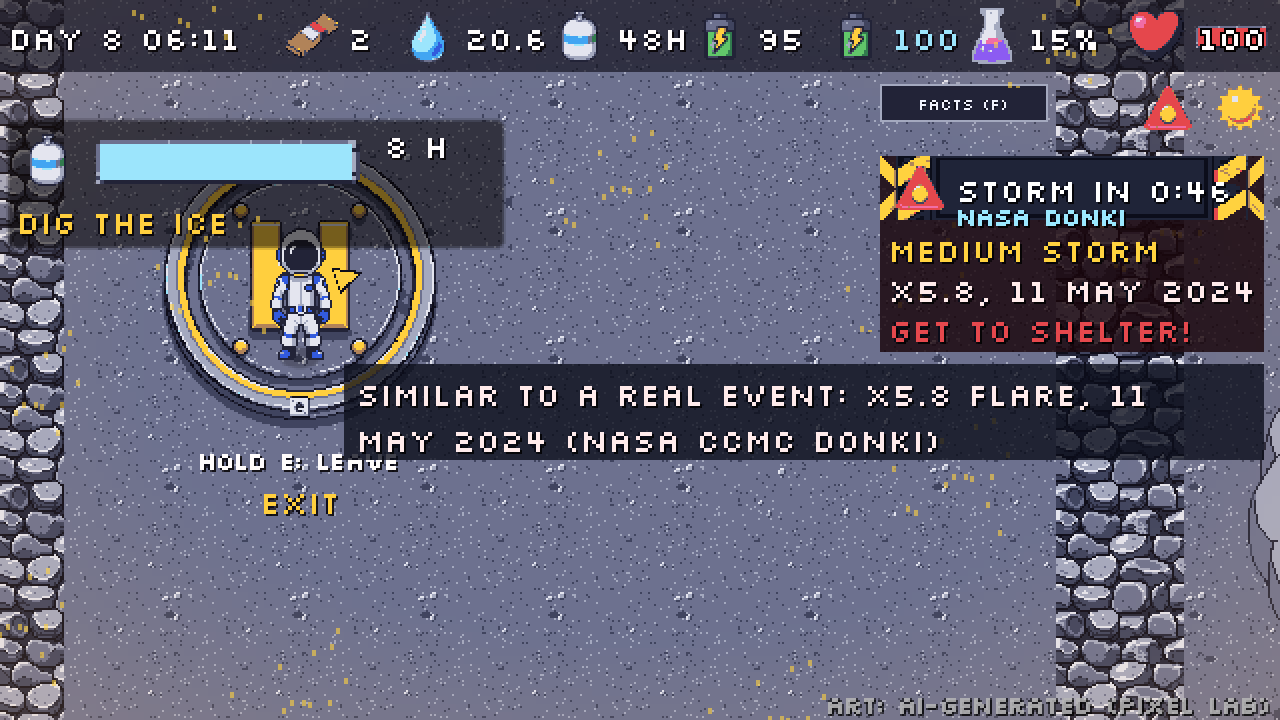
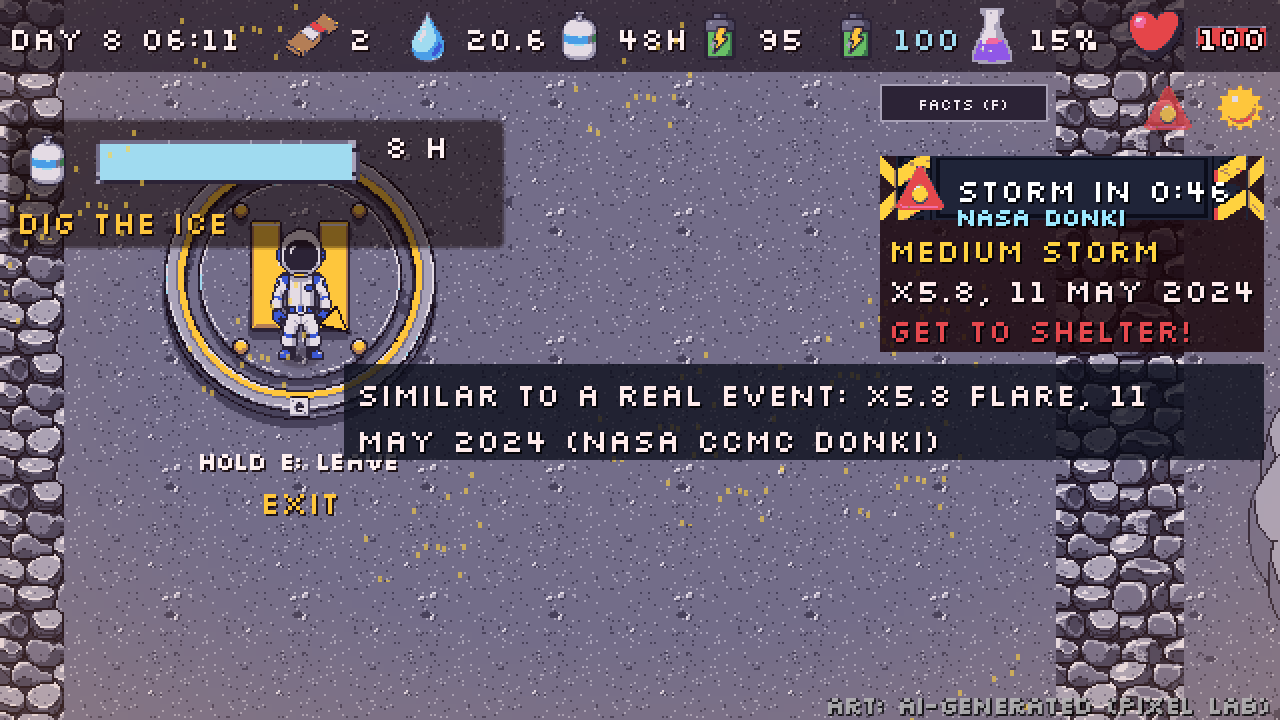
Review 2 fixes: arrow through wall gaps, shorter finale, menu rows, focus, pad prompt, failed heading; new captures and itch cover

diff --git a/docs/DECISIONS_LOG.md b/docs/DECISIONS_LOG.md
@@ -45,3 +45,4 @@
 - FINAL 5 (reviewer fixes): menus keep the keyboard (focus released, Enter and mouse clicks work, nothing behind can be clicked, 0.3 s input delay against double taps); title shows the game name and ignores keys while a dialog is open; cargo lander sits on the right half of the pad (path stays free), pad radius 90; day 32 notice points to the landing pad; Health number readable; Judge day label not clipped; '+10 health'; failed ending explains a health death; mission EXIT label moved under the pad; building footprints reach down to the node origin so the player is never drawn behind a building while standing in front of it. Retry-day values were correct (the preset's state is after the 07:00 cargo, Retry goes back to 06:00). Not fixed: audio 'DataCloneError out of memory' seen in the reviewer's console after many reloads in one tab (could not reproduce).
 - CLEANUP S (sound): make_sfx.py normalises by group (peak limit and RMS target: alarm -1/-6, events -4/-12, pickups -7/-15, UI -12/-20, steps -18/-30 dBFS), trims leading silence, 5 ms fades on every effect, squares and saws low-passed at 4 kHz, UI/pickup tones use a square+triangle mix. Audio.gd: +-5% pitch on step, pickup, click; same sound at most every 60 ms and 2 copies at once; ambience ducks about 6 dB for 0.4 s under important effects and fades in/out over 0.5 s (storms still mean full silence). audio_check prints a peak/RMS table; nothing above -1 dBFS. Not verified by ear in the Web build.
 - CLEANUP V (visuals): UIStyle token script (palette colours, 3 text sizes 12/16/24, 8 px padding, 4 px gap, 2 px corners, 0.12 s panel fade + 2 px slide, 0.2 s scene fade); every hard-coded UI colour replaced by tokens; no text below 12 px; pixel art only at 1:1 or 2:1 (slider track 0.5 in the 2x layer, 16-unit icons in menus); lock labels only within 120 px of the player; paths now reach the forecast board and the shelter; every panel opens/closes with the same animation; title: centred name, one column of equal buttons, footer with how-to-play and the AI statement; mission suit/objective on a dark backing, exit prompt below the pad; Space Weather Log columns re-spaced. itch.io cover 630x500 in docs/screenshots (from the title capture, nearest-neighbour only).
+- REVIEW 2 fixes: the mission arrow points through the next wall gap when a wall is in the way; the finale stone is between walls 2 and 3 (route about 36 s of suit air; the storm is the challenge); the player cannot walk under the HUD on missions; menu rows show label and reason on one line (no text crossed by the button border), wider dialogs; focus returns to Start after No; shorter day-32 notice; pad prompt radius 130 (standing on the H works); sleep goal only after 18:00; failed ending has a 'Mission failed' heading and 16 px text; Esc on character select returns to the title.
